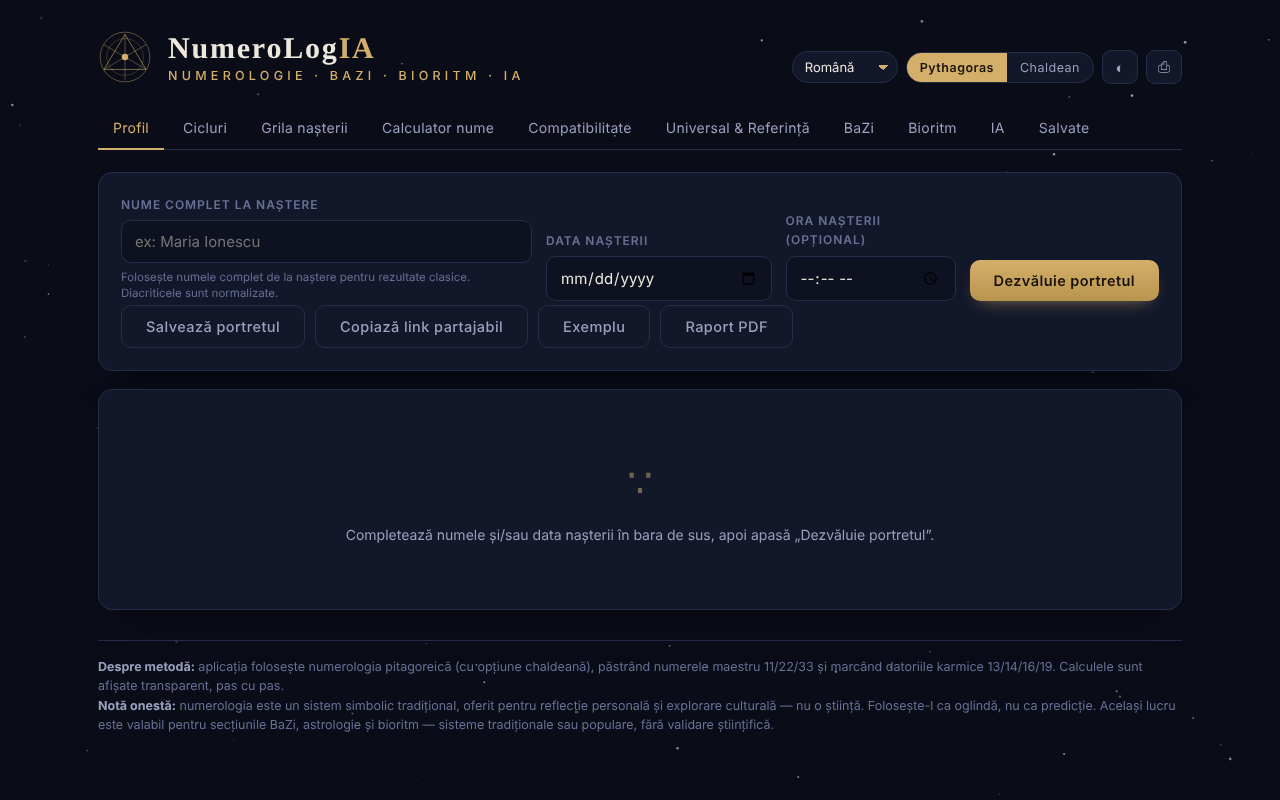
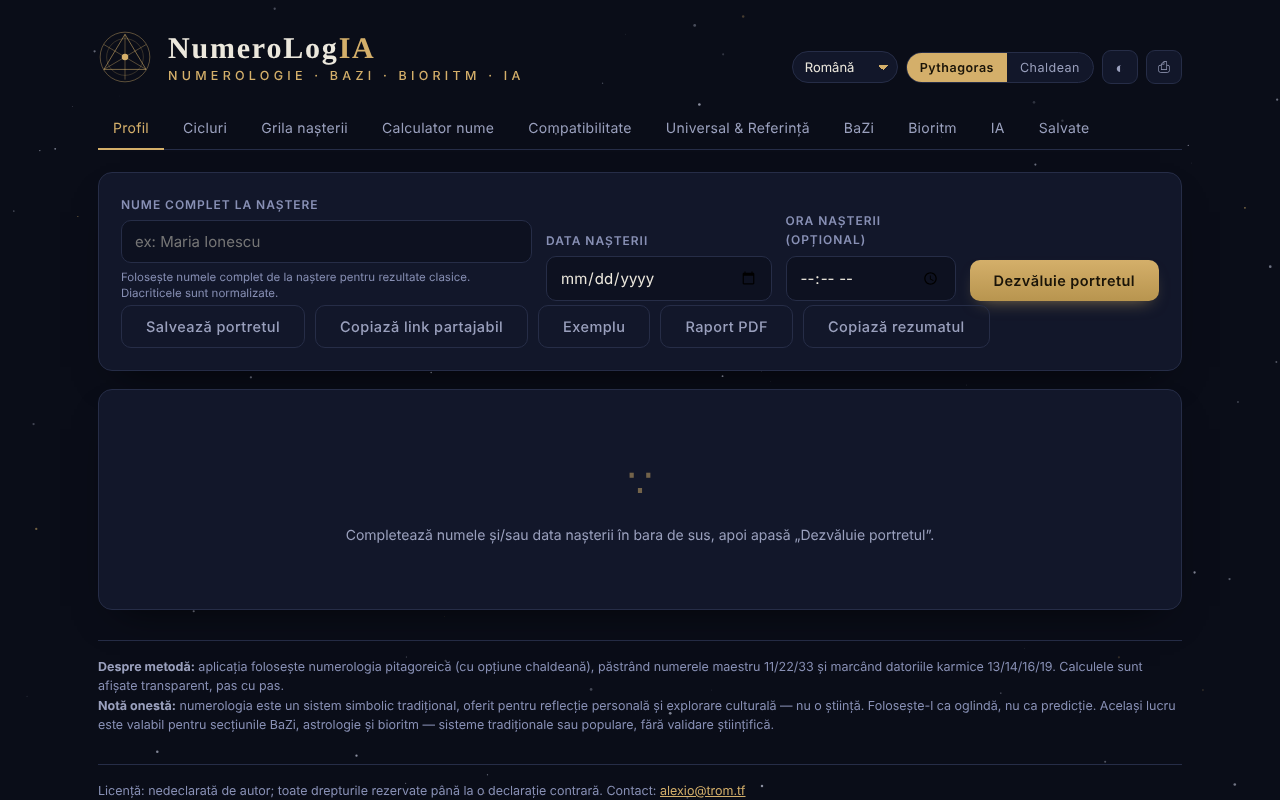
Runda 6 (11 octombrie 2026): reparații și îmbunătățiri
Claude-Session: https://claude.ai/code/session_01D2sCEb3hy3nutYexhUfQFs

diff --git a/index.html b/index.html
@@ -3,7 +3,7 @@
 <head>
 <meta charset="UTF-8">
 <meta name="viewport" content="width=device-width, initial-scale=1.0">
-<meta http-equiv="Content-Security-Policy" content="default-src 'none'; script-src 'unsafe-inline'; style-src 'unsafe-inline'; img-src data:; connect-src http: https:; base-uri 'none'; form-action 'none';">
+<meta http-equiv="Content-Security-Policy" content="default-src 'none'; script-src  'sha256-+IPdaisfzXkAXsBUdKUnLY6JP40ukyKfHoPuEeKIn+4='; style-src 'unsafe-inline'; img-src data:; connect-src http: https:; base-uri 'none'; form-action 'none';">
 <meta name="copyright" content="Licență nedeclarată de autor; toate drepturile rezervate până la o declarație contrară. Contact: alexio@trom.tf">
 <title>NumeroLogIA — Numerologie + IA</title>
 <!-- Licență: nedeclarată de autor; toate drepturile rezervate până la o declarație contrară. Contact: alexio@trom.tf
@@ -266,6 +266,7 @@ body.report-open #reportView{display:block;position:fixed;inset:0;z-index:9999;o
     <button class="btn ghost" id="shareBtn" data-i="btnShare">Copiază link partajabil</button>
     <button class="btn ghost" id="demoBtn" data-i="btnDemo">Exemplu</button>
     <button class="btn ghost" id="reportBtn" data-i="btnReport">Raport PDF</button>
+    <button class="btn ghost" id="copySumBtn" data-i="btnCopySum">Copiază rezumatul</button>
   </div>
 </div>
 <div id="numDetail" class="card" style="display:none;position:relative" role="region" aria-live="polite"></div>
@@ -334,6 +335,11 @@ body.report-open #reportView{display:block;position:fixed;inset:0;z-index:9999;o
     <p class="eyebrow" data-i="savedEye">Portrete păstrate local</p>
     <h3 class="sec-h" style="margin-top:2px" data-i="savedTitle">Portretele tale salvate</h3>
     <p class="sec-sub" style="margin-left:34px" data-i="savedDesc">Salvate doar în acest browser (fără server, fără telemetrie).</p>
+    <div class="btn-row" style="margin:6px 0 12px 34px">
+      <button class="btn ghost" id="expSavedBtn" data-i="btnExport">Exportă (JSON)</button>
+      <button class="btn ghost" id="impSavedBtn" data-i="btnImport">Importă (JSON)</button>
+      <input type="file" id="impFile" accept="application/json,.json" hidden>
+    </div>
     <div id="savedList"></div>
   </div>
 </section>
@@ -649,7 +655,7 @@ const I18N={
   ratingExcellent:"Excelentă",ratingGood:"Bună",ratingComplex:"Complexă",ratingChallenging:"Provocatoare",
   uniEye:"Energia colectivă a momentului",uniTitle:"Numerele universale de azi",universalYear:"Anul Universal",universalMonth:"Luna Universală",universalDay:"Ziua Universală",refTitle:"Referință completă a numerelor",refDesc:"Sensul fiecărui număr, plus corespondențele tradiționale.",
   planet:"Planetă",element:"Element",color:"Culoare",gem:"Piatră",weekday:"Zi",tarot:"Tarot",zodiac:"Zodie",bodyA:"Corp",career:"Vocații",harmony:"Numere armonioase",
-  savedEye:"Portrete păstrate local",savedTitle:"Portretele tale salvate",savedDesc:"Salvate doar în acest browser (fără server, fără telemetrie).",noSaved:"Niciun portret salvat încă. Calculează un portret și apasă „Salvează”.",load:"Încarcă",del:"Șterge",confirmDel:"Ștergi acest portret salvat?",saveOk:"Portret salvat.",saveNeedData:"Completează numele sau data nașterii înainte de a salva.",shareOk:"Link copiat în clipboard. Conține numele și data nașterii.",shareFail:"Nu am putut copia automat — copiază din bara de adrese.",
+  btnCopySum:"Copiază rezumatul",sumOk:"Rezumat copiat în clipboard.",sumNote:"Numerologia este un sistem simbolic, fără validare științifică.",btnExport:"Exportă (JSON)",btnImport:"Importă (JSON)",expEmpty:"Nu ai portrete salvate de exportat.",expOk:"Exportate:",impOk:"Importate:",impFail:"Fișier invalid (se așteaptă un export NumeroLogIA în JSON, sub 1 MB).",dateInvalid:"Data introdusă nu este validă.",savedEye:"Portrete păstrate local",savedTitle:"Portretele tale salvate",savedDesc:"Salvate doar în acest browser (fără server, fără telemetrie).",noSaved:"Niciun portret salvat încă. Calculează un portret și apasă „Salvează”.",load:"Încarcă",del:"Șterge",confirmDel:"Ștergi acest portret salvat?",saveOk:"Portret salvat.",saveNeedData:"Completează numele sau data nașterii înainte de a salva.",shareOk:"Link copiat în clipboard. Conține numele și data nașterii.",shareFail:"Nu am putut copia automat — copiază din bara de adrese.",
   themeT:"Comută tema",printT:"Tipărește / salvează PDF",close:"Închide",demoName:"Maria Ionescu",
   note1:"<b>Despre metodă:</b> aplicația folosește numerologia pitagoreică (cu opțiune chaldeană), păstrând numerele maestru 11/22/33 și marcând datoriile karmice 13/14/16/19. Calculele sunt afișate transparent, pas cu pas.",
   note2:"<b>Notă onestă:</b> numerologia este un sistem simbolic tradițional, oferit pentru reflecție personală și explorare culturală — nu o știință. Folosește-l ca oglindă, nu ca predicție. Același lucru este valabil pentru secțiunile BaZi, astrologie și bioritm — sisteme tradiționale sau populare, fără validare științifică."},
@@ -675,7 +681,7 @@ const I18N={
   ratingExcellent:"Excellent",ratingGood:"Good",ratingComplex:"Complex",ratingChallenging:"Challenging",
   uniEye:"The collective energy of the moment",uniTitle:"Today's universal numbers",universalYear:"Universal Year",universalMonth:"Universal Month",universalDay:"Universal Day",refTitle:"Complete number reference",refDesc:"The meaning of each number, plus its traditional correspondences.",
   planet:"Planet",element:"Element",color:"Color",gem:"Gemstone",weekday:"Weekday",tarot:"Tarot",zodiac:"Zodiac",bodyA:"Body",career:"Callings",harmony:"Harmonious numbers",
-  savedEye:"Portraits kept locally",savedTitle:"Your saved portraits",savedDesc:"Saved only in this browser (no server, no telemetry).",noSaved:"No saved portraits yet. Calculate a portrait and press \u201cSave\u201d.",load:"Load",del:"Delete",confirmDel:"Delete this saved portrait?",saveOk:"Portrait saved.",saveNeedData:"Enter a name or date of birth before saving.",shareOk:"Link copied to clipboard. It contains the name and birth date.",shareFail:"Couldn't copy automatically — copy it from the address bar.",
+  btnCopySum:"Copy summary",sumOk:"Summary copied to the clipboard.",sumNote:"Numerology is a symbolic system with no scientific validation.",btnExport:"Export (JSON)",btnImport:"Import (JSON)",expEmpty:"No saved portraits to export.",expOk:"Exported:",impOk:"Imported:",impFail:"Invalid file (a NumeroLogIA JSON export under 1 MB is expected).",dateInvalid:"The date you entered is not valid.",savedEye:"Portraits kept locally",savedTitle:"Your saved portraits",savedDesc:"Saved only in this browser (no server, no telemetry).",noSaved:"No saved portraits yet. Calculate a portrait and press \u201cSave\u201d.",load:"Load",del:"Delete",confirmDel:"Delete this saved portrait?",saveOk:"Portrait saved.",saveNeedData:"Enter a name or date of birth before saving.",shareOk:"Link copied to clipboard. It contains the name and birth date.",shareFail:"Couldn't copy automatically — copy it from the address bar.",
   themeT:"Toggle theme",printT:"Print / save PDF",close:"Close",demoName:"Mary Johnson",
   note1:"<b>On method:</b> the app uses Pythagorean numerology (with a Chaldean option), preserving master numbers 11/22/33 and flagging karmic debts 13/14/16/19. Every calculation is shown transparently, step by step.",
   note2:"<b>An honest note:</b> numerology is a traditional symbolic system, offered for personal reflection and cultural exploration — not a science. Use it as a mirror, not a prediction. The same applies to the BaZi, astrology and biorhythm sections — traditional or popular systems without scientific validation."}};
@@ -705,7 +711,7 @@ I18N.it={appTitle:"Numerologia",appSub:"Ritratto numerico completo",
  ratingExcellent:"Eccellente",ratingGood:"Buona",ratingComplex:"Complessa",ratingChallenging:"Impegnativa",
  uniEye:"L'energia collettiva del momento",uniTitle:"I numeri universali di oggi",universalYear:"Anno Universale",universalMonth:"Mese Universale",universalDay:"Giorno Universale",refTitle:"Riferimento completo dei numeri",refDesc:"Il significato di ogni numero, più le sue corrispondenze tradizionali.",
  planet:"Pianeta",element:"Elemento",color:"Colore",gem:"Pietra",weekday:"Giorno",tarot:"Tarocco",zodiac:"Zodiaco",bodyA:"Corpo",career:"Vocazioni",harmony:"Numeri armoniosi",
- savedEye:"Ritratti conservati localmente",savedTitle:"I tuoi ritratti salvati",savedDesc:"Salvati solo in questo browser (nessun server, nessuna telemetria).",noSaved:"Nessun ritratto salvato. Calcola un ritratto e premi \u201cSalva\u201d.",load:"Carica",del:"Elimina",confirmDel:"Eliminare questo ritratto salvato?",saveOk:"Ritratto salvato.",saveNeedData:"Inserisci un nome o una data di nascita prima di salvare.",shareOk:"Link copiato negli appunti. Contiene nome e data di nascita.",shareFail:"Impossibile copiare automaticamente — copialo dalla barra degli indirizzi.",
+ btnCopySum:"Copia riepilogo",sumOk:"Riepilogo copiato negli appunti.",sumNote:"La numerologia è un sistema simbolico, senza validazione scientifica.",btnExport:"Esporta (JSON)",btnImport:"Importa (JSON)",expEmpty:"Nessun ritratto salvato da esportare.",expOk:"Esportati:",impOk:"Importati:",impFail:"File non valido (si attende un export JSON di NumeroLogIA sotto 1 MB).",dateInvalid:"La data inserita non è valida.",savedEye:"Ritratti conservati localmente",savedTitle:"I tuoi ritratti salvati",savedDesc:"Salvati solo in questo browser (nessun server, nessuna telemetria).",noSaved:"Nessun ritratto salvato. Calcola un ritratto e premi \u201cSalva\u201d.",load:"Carica",del:"Elimina",confirmDel:"Eliminare questo ritratto salvato?",saveOk:"Ritratto salvato.",saveNeedData:"Inserisci un nome o una data di nascita prima di salvare.",shareOk:"Link copiato negli appunti. Contiene nome e data di nascita.",shareFail:"Impossibile copiare automaticamente — copialo dalla barra degli indirizzi.",
  themeT:"Cambia tema",printT:"Stampa / salva PDF",close:"Chiudi",demoName:"Maria Rossi",
  note1:"<b>Sul metodo:</b> l'app usa la numerologia pitagorica (con opzione caldea), conservando i numeri maestri 11/22/33 e segnalando i debiti karmici 13/14/16/19. Ogni calcolo è mostrato in modo trasparente, passo dopo passo.",
  note2:"<b>Nota onesta:</b> la numerologia è un sistema simbolico tradizionale, offerto per la riflessione personale e l'esplorazione culturale — non una scienza. Usalo come uno specchio, non come una previsione. Lo stesso vale per le sezioni BaZi, astrologia e bioritmo — sistemi tradizionali o popolari, privi di validazione scientifica."};
@@ -791,7 +797,7 @@ I18N.es={appTitle:"Numerología",appSub:"Retrato numérico completo",
  ratingExcellent:"Excelente",ratingGood:"Buena",ratingComplex:"Compleja",ratingChallenging:"Desafiante",
  uniEye:"La energía colectiva del momento",uniTitle:"Los números universales de hoy",universalYear:"Año Universal",universalMonth:"Mes Universal",universalDay:"Día Universal",refTitle:"Referencia completa de los números",refDesc:"El significado de cada número, más sus correspondencias tradicionales.",
  planet:"Planeta",element:"Elemento",color:"Color",gem:"Piedra",weekday:"Día",tarot:"Tarot",zodiac:"Zodíaco",bodyA:"Cuerpo",career:"Vocaciones",harmony:"Números armoniosos",
- savedEye:"Retratos guardados localmente",savedTitle:"Tus retratos guardados",savedDesc:"Guardados solo en este navegador (sin servidor, sin telemetría).",noSaved:"Aún no hay retratos guardados. Calcula un retrato y pulsa \u201cGuardar\u201d.",load:"Cargar",del:"Eliminar",confirmDel:"¿Eliminar este retrato guardado?",saveOk:"Retrato guardado.",saveNeedData:"Introduce un nombre o una fecha de nacimiento antes de guardar.",shareOk:"Enlace copiado al portapapeles. Contiene el nombre y la fecha de nacimiento.",shareFail:"No se pudo copiar automáticamente — cópialo de la barra de direcciones.",
+ btnCopySum:"Copiar resumen",sumOk:"Resumen copiado al portapapeles.",sumNote:"La numerología es un sistema simbólico, sin validación científica.",btnExport:"Exportar (JSON)",btnImport:"Importar (JSON)",expEmpty:"No hay retratos guardados para exportar.",expOk:"Exportados:",impOk:"Importados:",impFail:"Archivo no válido (se espera una exportación JSON de NumeroLogIA de menos de 1 MB).",dateInvalid:"La fecha introducida no es válida.",savedEye:"Retratos guardados localmente",savedTitle:"Tus retratos guardados",savedDesc:"Guardados solo en este navegador (sin servidor, sin telemetría).",noSaved:"Aún no hay retratos guardados. Calcula un retrato y pulsa \u201cGuardar\u201d.",load:"Cargar",del:"Eliminar",confirmDel:"¿Eliminar este retrato guardado?",saveOk:"Retrato guardado.",saveNeedData:"Introduce un nombre o una fecha de nacimiento antes de guardar.",shareOk:"Enlace copiado al portapapeles. Contiene el nombre y la fecha de nacimiento.",shareFail:"No se pudo copiar automáticamente — cópialo de la barra de direcciones.",
  themeT:"Cambiar tema",printT:"Imprimir / guardar PDF",close:"Cerrar",demoName:"María García",
  note1:"<b>Sobre el método:</b> la app usa numerología pitagórica (con opción caldea), conservando los números maestros 11/22/33 y señalando las deudas kármicas 13/14/16/19. Cada cálculo se muestra de forma transparente, paso a paso.",
  note2:"<b>Nota honesta:</b> la numerología es un sistema simbólico tradicional, ofrecido para la reflexión personal y la exploración cultural — no una ciencia. Úsala como un espejo, no como una predicción. Lo mismo vale para las secciones de BaZi, astrología y biorritmo: sistemas tradicionales o populares sin validación científica."};
@@ -877,7 +883,7 @@ I18N.fr={appTitle:"Numérologie",appSub:"Portrait numérique complet",
  ratingExcellent:"Excellente",ratingGood:"Bonne",ratingComplex:"Complexe",ratingChallenging:"Exigeante",
  uniEye:"L'énergie collective du moment",uniTitle:"Les nombres universels d'aujourd'hui",universalYear:"Année Universelle",universalMonth:"Mois Universel",universalDay:"Jour Universel",refTitle:"Référence complète des nombres",refDesc:"Le sens de chaque nombre, ainsi que ses correspondances traditionnelles.",
  planet:"Planète",element:"Élément",color:"Couleur",gem:"Pierre",weekday:"Jour",tarot:"Tarot",zodiac:"Zodiaque",bodyA:"Corps",career:"Vocations",harmony:"Nombres harmonieux",
- savedEye:"Portraits conservés localement",savedTitle:"Vos portraits enregistrés",savedDesc:"Enregistrés uniquement dans ce navigateur (aucun serveur, aucune télémétrie).",noSaved:"Aucun portrait enregistré pour l'instant. Calculez un portrait et appuyez sur \u201cEnregistrer\u201d.",load:"Charger",del:"Supprimer",confirmDel:"Supprimer ce portrait enregistré ?",saveOk:"Portrait enregistré.",saveNeedData:"Saisissez un nom ou une date de naissance avant d'enregistrer.",shareOk:"Lien copié dans le presse-papiers. Il contient le nom et la date de naissance.",shareFail:"Impossible de copier automatiquement — copiez-le depuis la barre d'adresse.",
+ btnCopySum:"Copier le résumé",sumOk:"Résumé copié dans le presse-papiers.",sumNote:"La numérologie est un système symbolique, sans validation scientifique.",btnExport:"Exporter (JSON)",btnImport:"Importer (JSON)",expEmpty:"Aucun portrait enregistré à exporter.",expOk:"Exportés :",impOk:"Importés :",impFail:"Fichier invalide (un export JSON de NumeroLogIA de moins de 1 Mo est attendu).",dateInvalid:"La date saisie n’est pas valide.",savedEye:"Portraits conservés localement",savedTitle:"Vos portraits enregistrés",savedDesc:"Enregistrés uniquement dans ce navigateur (aucun serveur, aucune télémétrie).",noSaved:"Aucun portrait enregistré pour l'instant. Calculez un portrait et appuyez sur \u201cEnregistrer\u201d.",load:"Charger",del:"Supprimer",confirmDel:"Supprimer ce portrait enregistré ?",saveOk:"Portrait enregistré.",saveNeedData:"Saisissez un nom ou une date de naissance avant d'enregistrer.",shareOk:"Lien copié dans le presse-papiers. Il contient le nom et la date de naissance.",shareFail:"Impossible de copier automatiquement — copiez-le depuis la barre d'adresse.",
  themeT:"Changer de thème",printT:"Imprimer / enregistrer en PDF",close:"Fermer",demoName:"Marie Dubois",
  note1:"<b>À propos de la méthode :</b> l'app utilise la numérologie pythagoricienne (avec une option chaldéenne), en conservant les nombres maîtres 11/22/33 et en signalant les dettes karmiques 13/14/16/19. Chaque calcul est montré de façon transparente, étape par étape.",
  note2:"<b>Note honnête :</b> la numérologie est un système symbolique traditionnel, proposé pour la réflexion personnelle et l'exploration culturelle — pas une science. Utilisez-la comme un miroir, non comme une prédiction. Il en va de même pour les sections BaZi, astrologie et biorythme — des systèmes traditionnels ou populaires, sans validation scientifique."};
@@ -963,7 +969,7 @@ I18N.pt={appTitle:"Numerologia",appSub:"Retrato numérico completo",
  ratingExcellent:"Excelente",ratingGood:"Boa",ratingComplex:"Complexa",ratingChallenging:"Exigente",
  uniEye:"A energia coletiva do momento",uniTitle:"Os números universais de hoje",universalYear:"Ano Universal",universalMonth:"Mês Universal",universalDay:"Dia Universal",refTitle:"Referência completa dos números",refDesc:"O significado de cada número, além das suas correspondências tradicionais.",
  planet:"Planeta",element:"Elemento",color:"Cor",gem:"Pedra",weekday:"Dia",tarot:"Tarô",zodiac:"Zodíaco",bodyA:"Corpo",career:"Vocações",harmony:"Números harmoniosos",
- savedEye:"Retratos guardados localmente",savedTitle:"Os seus retratos guardados",savedDesc:"Guardados apenas neste navegador (sem servidor, sem telemetria).",noSaved:"Ainda não há retratos guardados. Calcule um retrato e prima \u201cGuardar\u201d.",load:"Carregar",del:"Eliminar",confirmDel:"Eliminar este retrato guardado?",saveOk:"Retrato guardado.",saveNeedData:"Introduza um nome ou uma data de nascimento antes de guardar.",shareOk:"Link copiado para a área de transferência. Contém o nome e a data de nascimento.",shareFail:"Não foi possível copiar automaticamente — copie da barra de endereço.",
+ btnCopySum:"Copiar resumo",sumOk:"Resumo copiado para a área de transferência.",sumNote:"A numerologia é um sistema simbólico, sem validação científica.",btnExport:"Exportar (JSON)",btnImport:"Importar (JSON)",expEmpty:"Não há retratos guardados para exportar.",expOk:"Exportados:",impOk:"Importados:",impFail:"Ficheiro inválido (espera-se uma exportação JSON do NumeroLogIA com menos de 1 MB).",dateInvalid:"A data introduzida não é válida.",savedEye:"Retratos guardados localmente",savedTitle:"Os seus retratos guardados",savedDesc:"Guardados apenas neste navegador (sem servidor, sem telemetria).",noSaved:"Ainda não há retratos guardados. Calcule um retrato e prima \u201cGuardar\u201d.",load:"Carregar",del:"Eliminar",confirmDel:"Eliminar este retrato guardado?",saveOk:"Retrato guardado.",saveNeedData:"Introduza um nome ou uma data de nascimento antes de guardar.",shareOk:"Link copiado para a área de transferência. Contém o nome e a data de nascimento.",shareFail:"Não foi possível copiar automaticamente — copie da barra de endereço.",
  themeT:"Mudar tema",printT:"Imprimir / guardar PDF",close:"Fechar",demoName:"Maria Silva",
  note1:"<b>Sobre o método:</b> a app usa numerologia pitagórica (com opção caldeia), conservando os números mestres 11/22/33 e assinalando as dívidas cármicas 13/14/16/19. Cada cálculo é mostrado de forma transparente, passo a passo.",
  note2:"<b>Nota honesta:</b> a numerologia é um sistema simbólico tradicional, oferecido para a reflexão pessoal e a exploração cultural — não uma ciência. Use-a como um espelho, não como uma previsão. O mesmo vale para as secções de BaZi, astrologia e biorritmo — sistemas tradicionais ou populares, sem validação científica."};
@@ -1049,7 +1055,7 @@ I18N.ca={appTitle:"Numerologia",appSub:"Retrat numèric complet",
  ratingExcellent:"Excel·lent",ratingGood:"Bona",ratingComplex:"Complexa",ratingChallenging:"Exigent",
  uniEye:"L'energia col·lectiva del moment",uniTitle:"Els nombres universals d'avui",universalYear:"Any Universal",universalMonth:"Mes Universal",universalDay:"Dia Universal",refTitle:"Referència completa dels nombres",refDesc:"El significat de cada nombre, a més de les seves correspondències tradicionals.",
  planet:"Planeta",element:"Element",color:"Color",gem:"Pedra",weekday:"Dia",tarot:"Tarot",zodiac:"Zodíac",bodyA:"Cos",career:"Vocacions",harmony:"Nombres harmoniosos",
- savedEye:"Retrats desats localment",savedTitle:"Els vostres retrats desats",savedDesc:"Desats només en aquest navegador (sense servidor, sense telemetria).",noSaved:"Encara no hi ha retrats desats. Calculeu un retrat i premeu \u201cDesa\u201d.",load:"Carrega",del:"Elimina",confirmDel:"Voleu eliminar aquest retrat desat?",saveOk:"Retrat desat.",saveNeedData:"Introduïu un nom o una data de naixement abans de desar.",shareOk:"Enllaç copiat al porta-retalls. Conté el nom i la data de naixement.",shareFail:"No s'ha pogut copiar automàticament — copieu-lo de la barra d'adreces.",
+ btnCopySum:"Copia el resum",sumOk:"Resum copiat al porta-retalls.",sumNote:"La numerologia és un sistema simbòlic, sense validació científica.",btnExport:"Exporta (JSON)",btnImport:"Importa (JSON)",expEmpty:"No hi ha retrats desats per exportar.",expOk:"Exportats:",impOk:"Importats:",impFail:"Fitxer no vàlid (s’espera una exportació JSON de NumeroLogIA de menys d’1 MB).",dateInvalid:"La data introduïda no és vàlida.",savedEye:"Retrats desats localment",savedTitle:"Els vostres retrats desats",savedDesc:"Desats només en aquest navegador (sense servidor, sense telemetria).",noSaved:"Encara no hi ha retrats desats. Calculeu un retrat i premeu \u201cDesa\u201d.",load:"Carrega",del:"Elimina",confirmDel:"Voleu eliminar aquest retrat desat?",saveOk:"Retrat desat.",saveNeedData:"Introduïu un nom o una data de naixement abans de desar.",shareOk:"Enllaç copiat al porta-retalls. Conté el nom i la data de naixement.",shareFail:"No s'ha pogut copiar automàticament — copieu-lo de la barra d'adreces.",
  themeT:"Canvia el tema",printT:"Imprimeix / desa en PDF",close:"Tanca",demoName:"Maria Garcia",
  note1:"<b>Sobre el mètode:</b> l'aplicació usa numerologia pitagòrica (amb opció caldea), conservant els nombres mestres 11/22/33 i assenyalant els deutes kàrmics 13/14/16/19. Cada càlcul es mostra de manera transparent, pas a pas.",
  note2:"<b>Nota honesta:</b> la numerologia és un sistema simbòlic tradicional, ofert per a la reflexió personal i l'exploració cultural — no una ciència. Useu-la com un mirall, no com una predicció. El mateix val per a les seccions de BaZi, astrologia i biorritme: sistemes tradicionals o populars sense validació científica."};
@@ -1191,6 +1197,7 @@ window.showDetail=showDetail;
 function computeProfile(){
   const rawName=$('inName').value.trim(); const dv=$('inDate').value;
   state.name=rawName; state.date=dv||null; const dt=readDate(dv);
+  if(dv&&!dt)toast(t('dateInvalid'));
   const norm=normSpaces(rawName); const hasName=norm.replace(/ /g,'').length>0;
   if(rawName&&!hasName)toast(t('nameNoLatin')); /* nume doar cu alfabet ne-latin: înainte era ignorat în tăcere */
   if(!hasName&&!dt){profile=null;return;}
@@ -1272,7 +1279,7 @@ function renderCycles(){
   const P=profile; const fdRaw=state.forecast||todayISO(); const fd=readDate(fdRaw)||readDate(todayISO());
   const pc=personalCycles(P.date.d,P.date.m,fd.y,fd.m,fd.d); const age=ageNow(P.date.d,P.date.m,P.date.y);
   let h='<h3 class="sec-h">'+t('cyclesIntro')+'</h3><p class="sec-sub">'+t('cyclesDesc')+'</p>';
-  h+='<div class="card" style="padding:14px 22px"><div class="field" style="max-width:240px"><label for="forecastDate">'+t('forecastFor')+'</label><input type="date" id="forecastDate" value="'+fdRaw+'" min="1500-01-01" max="2200-12-31" onchange="window.setForecast(this.value)"></div></div>';
+  h+='<div class="card" style="padding:14px 22px"><div class="field" style="max-width:240px"><label for="forecastDate">'+t('forecastFor')+'</label><input type="date" id="forecastDate" value="'+fdRaw+'" min="1500-01-01" max="2200-12-31" data-change="setForecast" data-a="[&quot;$v&quot;]"></div></div>';
   h+='<div class="three">'+miniNum('personalYear',t('personalYear'),pc.py.v)+miniNum('personalMonth',t('personalMonth'),pc.pm.v)+miniNum('personalDay',t('personalDay'),pc.pd.v)+'</div>';
   const py=loc(PYEAR[root(pc.py.v)]);
   h+='<div class="readout"><p class="eyebrow" style="margin-bottom:4px">'+t('personalYear')+' '+badge(pc.py.v)+'</p><h4>'+esc(py.t)+'</h4><p>'+esc(py.d)+'</p></div>';
@@ -1420,7 +1427,7 @@ function renderCompat(){
   let bsum=0;const jd1=bzJDN(d1.y,d1.m,d1.d),jd2=bzJDN(d2.y,d2.m,d2.d);for(let i=0;i<3;i++){bsum+=(Math.cos(2*Math.PI*(jd2-jd1)/BIO_RHYTHMS[i].period)+1)/2;}
   radarAx.push({label:t('rxBio'),value:bsum});
   h+='<div class="card" style="text-align:center"><p class="eyebrow" style="text-align:left">'+t('compatRadarTitle')+'</p>'+radarSVG(radarAx,3,'#d4af6a')+'</div>';
-  h+='<div style="text-align:center;margin-top:4px"><button class="btn ghost" onclick="reportCompare()">'+t('btnReportCompare')+'</button></div>';
+  h+='<div style="text-align:center;margin-top:4px"><button class="btn ghost" data-click="reportCompare">'+t('btnReportCompare')+'</button></div>';
   box.innerHTML=h;
 }
 
@@ -1444,8 +1451,46 @@ function prefSet(k,v){try{localStorage.setItem('num_pref_'+k,v);}catch(e){}}
 function renderSaved(){
   const list=getSaved(); const box=$('savedList');
   if(!list.length){box.innerHTML='<p style="color:var(--mut);font-size:14px;margin:0">'+t('noSaved')+'</p>';return;}
-  let h=''; list.forEach((it,i)=>{h+='<div class="saved-item"><div><div class="si-name">'+esc(it.name||t('noName'))+'</div><div class="si-meta">'+esc((it.date||'')+(it.time?' · '+it.time:''))+'</div></div><div class="si-act"><button class="xbtn" onclick="window.loadSaved('+i+')">'+t('load')+'</button><button class="xbtn del" onclick="window.delSaved('+i+')">'+t('del')+'</button></div></div>';});
+  let h=''; list.forEach((it,i)=>{h+='<div class="saved-item"><div><div class="si-name">'+esc(it.name||t('noName'))+'</div><div class="si-meta">'+esc((it.date||'')+(it.time?' · '+it.time:''))+'</div></div><div class="si-act"><button class="xbtn" data-click="loadSaved" data-a="['+i+']">'+t('load')+'</button><button class="xbtn del" data-click="delSaved" data-a="['+i+']">'+t('del')+'</button></div></div>';});
   box.innerHTML=h;
+}
+function summaryText(){
+  if(!profile)return '';
+  const P=profile,L=['NumeroLogIA · '+(state.sys==='chal'?'Chaldean':'Pythagoras')];
+  if(P.name)L.push(t('profileFor')+': '+P.name);
+  if(P.date)L.push(t('born')+' '+fmtDate(P.date));
+  const add=function(lbl,o){if(o&&o.v!==undefined)L.push(lbl+': '+o.v+(o.karmic?' ('+o.karmic+')':''));};
+  if(P.hasDate)add(t('lifePath'),P.lp.primary);
+  if(P.hasName){add(t('expression'),P.nn.expression);add(t('soulUrge'),P.nn.soul);add(t('personality'),P.nn.personality);}
+  if(P.hasDate)add(t('birthday'),P.birthday);
+  if(P.maturity)add(t('maturity'),P.maturity);
+  L.push('',t('sumNote'));
+  return L.join('\n');
+}
+function exportSaved(){
+  const list=getSaved();
+  if(!list.length){toast(t('expEmpty'));return;}
+  const blob=new Blob([JSON.stringify({app:'NumeroLogIA',version:1,saved:list},null,1)],{type:'application/json'});
+  const a=document.createElement('a');a.href=URL.createObjectURL(blob);a.download='numerologia-portrete.json';
+  document.body.appendChild(a);a.click();a.remove();setTimeout(function(){URL.revokeObjectURL(a.href);},2000);
+  toast(t('expOk')+' '+list.length);
+}
+function importSaved(text){
+  let data;try{data=JSON.parse(text);}catch(e){toast(t('impFail'));return;}
+  const arr=Array.isArray(data)?data:(data&&Array.isArray(data.saved)?data.saved:null);
+  if(!arr){toast(t('impFail'));return;}
+  const list=getSaved();let added=0;
+  arr.forEach(function(x){
+    if(!x||typeof x!=='object')return;
+    const name=typeof x.name==='string'?x.name.slice(0,120):'';
+    const date=typeof x.date==='string'&&/^\d{4}-\d{2}-\d{2}$/.test(x.date)&&readDate(x.date)?x.date:'';
+    const time=typeof x.time==='string'&&/^\d{2}:\d{2}$/.test(x.time)?x.time:'';
+    if(!name&&!date)return;
+    if(list.some(function(y){return y.name===name&&y.date===date&&(y.time||'')===time;}))return;
+    if(list.length>=50)return;
+    list.push({name:name,date:date,time:time});added++;
+  });
+  setSaved(list);renderSaved();toast(t('impOk')+' '+added);
 }
 window.loadSaved=function(i){const it=getSaved()[i];if(!it)return;$('inName').value=it.name||'';$('inDate').value=it.date||'';if($('inTime'))$('inTime').value=it.time||'';computeProfile();switchTab('profil');updateHash();};
 window.delSaved=function(i){if(!confirm(t('confirmDel')))return;const list=getSaved();list.splice(i,1);setSaved(list);renderSaved();};
@@ -1800,8 +1845,8 @@ function renderBio(){
   let h='<div class="card"><p class="eyebrow">'+t('bioEye')+'</p><h3 class="sec-h" style="margin-top:2px">'+t('bioTitle')+'</h3><p class="sec-sub" style="margin:2px 0 12px 0">'+t('bioDesc')+'</p>';
   h+='<div style="display:flex;align-items:center;gap:12px;flex-wrap:wrap;margin-bottom:4px">';
   h+='<label style="font-size:13px;color:var(--mut)">'+t('bioTargetLbl')+'</label>';
-  h+='<input type="range" id="bioSlider" aria-labelledby="bioDateLbl" min="-60" max="60" value="0" step="1" oninput="bioUpdate()" style="flex:1;min-width:170px;accent-color:var(--gild)">';
-  h+='<button class="btn ghost" style="padding:6px 12px" onclick="var s=document.getElementById(\'bioSlider\');s.value=0;bioUpdate();">'+t('bioToday')+'</button>';
+  h+='<input type="range" id="bioSlider" aria-labelledby="bioDateLbl" min="-60" max="60" value="0" step="1" data-input="bioUpdate" style="flex:1;min-width:170px;accent-color:var(--gild)">';
+  h+='<button class="btn ghost" style="padding:6px 12px" data-click="bioToday">'+t('bioToday')+'</button>';
   h+='<span id="bioDateLbl" style="font-family:var(--mono);font-size:13px;color:var(--gild-t);min-width:130px;text-align:right"></span></div>';
   h+='<div id="bioChart" style="margin:4px 0"></div>';
   h+='<div id="bioVals" class="med-grid" style="margin-top:8px"></div>';
@@ -1940,19 +1985,19 @@ function renderAI(){
   h+='<details style="margin-bottom:14px"><summary style="cursor:pointer;font-size:13.5px;color:var(--cele)">'+t('aiSettings')+'</summary><div style="margin-top:10px">';
   h+='<div class="field"><label>'+t('aiBaseLbl')+'</label><input type="text" id="aiBase" value="'+base+'" autocomplete="off" spellcheck="false"></div>';
   h+='<div class="field" style="margin-top:8px"><label>'+t('aiModelLbl')+'</label><input type="text" id="aiModel" value="'+model+'" autocomplete="off" spellcheck="false"></div>';
-  h+='<div class="field" style="margin-top:10px"><label>'+t('aiInstalledLbl')+'</label><div style="display:flex;gap:8px"><select id="aiModelList" onchange="aiPickModel()" style="flex:1"><option value="">—</option></select><button class="btn ghost" style="padding:7px 12px" onclick="aiRefreshModels()">'+t('aiRefresh')+'</button></div></div>';
-  h+='<div class="field" style="margin-top:10px"><label>'+t('aiPullLbl')+'</label><div style="display:flex;gap:8px"><input type="text" id="aiPullName" value="'+model+'" autocomplete="off" spellcheck="false" style="flex:1"><button class="btn" style="padding:7px 14px" onclick="aiPullModel()">'+t('aiPullBtn')+'</button></div></div>';
-  h+='<div style="margin-top:6px;display:flex;gap:6px;flex-wrap:wrap">'+["llama3.2:1b","llama3.2","qwen2.5:3b","gemma2:2b","phi3.5"].map(function(m){return '<button onclick="aiSetPull(&#39;'+m+'&#39;)" style="font-size:12px;padding:4px 9px;border:1px solid var(--line);border-radius:99px;background:var(--surf);color:var(--cele);cursor:pointer">'+m+'</button>';}).join('')+'</div>';
+  h+='<div class="field" style="margin-top:10px"><label>'+t('aiInstalledLbl')+'</label><div style="display:flex;gap:8px"><select id="aiModelList" data-change="aiPickModel" style="flex:1"><option value="">—</option></select><button class="btn ghost" style="padding:7px 12px" data-click="aiRefreshModels">'+t('aiRefresh')+'</button></div></div>';
+  h+='<div class="field" style="margin-top:10px"><label>'+t('aiPullLbl')+'</label><div style="display:flex;gap:8px"><input type="text" id="aiPullName" value="'+model+'" autocomplete="off" spellcheck="false" style="flex:1"><button class="btn" style="padding:7px 14px" data-click="aiPullModel">'+t('aiPullBtn')+'</button></div></div>';
+  h+='<div style="margin-top:6px;display:flex;gap:6px;flex-wrap:wrap">'+["llama3.2:1b","llama3.2","qwen2.5:3b","gemma2:2b","phi3.5"].map(function(m){return '<button data-click="aiSetPull" data-a="[&quot;'+m+'&quot;]" style="font-size:12px;padding:4px 9px;border:1px solid var(--line);border-radius:99px;background:var(--surf);color:var(--cele);cursor:pointer">'+m+'</button>';}).join('')+'</div>';
   h+='<div id="aiPullBar" style="height:8px;background:var(--surf2);border-radius:99px;overflow:hidden;margin-top:8px"><div id="aiPullBarFill" style="height:100%;width:0;background:var(--gild);transition:width .3s"></div></div>';
   h+='<div id="aiPullStatus" style="font-size:12px;color:var(--mut);margin-top:5px;min-height:14px"></div>';
   h+='<p class="sec-sub" style="margin-top:4px">'+t('aiDownloadHint')+'</p>';
   h+='<div class="field" style="margin-top:8px"><label>'+t('aiKeyLbl')+'</label><input type="password" id="aiKey" value="'+key+'" autocomplete="off" spellcheck="false"></div>';
   h+='<p class="sec-sub" id="aiKeyWarn" style="margin:4px 0 0">'+t('aiKeyWarn')+'</p>';
-  h+='<div style="margin-top:10px;display:flex;gap:8px;align-items:center;flex-wrap:wrap"><button class="btn ghost" style="padding:7px 14px" onclick="aiSaveSettings()">'+t('aiSave')+'</button><button class="btn ghost" style="padding:7px 14px" onclick="aiTest()">'+t('aiTest')+'</button><span id="aiStatus" style="font-size:12.5px;color:var(--mut)"></span></div>';
+  h+='<div style="margin-top:10px;display:flex;gap:8px;align-items:center;flex-wrap:wrap"><button class="btn ghost" style="padding:7px 14px" data-click="aiSaveSettings">'+t('aiSave')+'</button><button class="btn ghost" style="padding:7px 14px" data-click="aiTest">'+t('aiTest')+'</button><span id="aiStatus" style="font-size:12.5px;color:var(--mut)"></span></div>';
   h+='<p class="sec-sub" style="margin-top:10px">'+t('aiSetupHint')+'</p>';
   h+='</div></details>';
-  h+='<div style="display:flex;gap:8px;flex-wrap:wrap;margin-bottom:10px"><button class="btn" onclick="aiPortrait()">'+t('aiBtnPortrait')+'</button><button class="btn" onclick="aiDaily()">'+t('aiBtnDaily')+'</button><button class="btn" onclick="aiCompatRun()">'+t('aiBtnCompat')+'</button></div>';
-  h+='<div class="field"><label>'+t('aiAskLbl')+'</label><div style="display:flex;gap:8px"><input type="text" id="aiAsk" placeholder="'+esc(t('aiAskPh'))+'" autocomplete="off" style="flex:1" onkeydown="aiAskKey(event)"><button class="btn" onclick="aiAsk()">'+t('aiAskBtn')+'</button></div></div>';
+  h+='<div style="display:flex;gap:8px;flex-wrap:wrap;margin-bottom:10px"><button class="btn" data-click="aiPortrait">'+t('aiBtnPortrait')+'</button><button class="btn" data-click="aiDaily">'+t('aiBtnDaily')+'</button><button class="btn" data-click="aiCompatRun">'+t('aiBtnCompat')+'</button></div>';
+  h+='<div class="field"><label>'+t('aiAskLbl')+'</label><div style="display:flex;gap:8px"><input type="text" id="aiAsk" placeholder="'+esc(t('aiAskPh'))+'" autocomplete="off" style="flex:1" data-keydown="aiAskKey" data-a="[&quot;$ev&quot;]"><button class="btn" data-click="aiAsk">'+t('aiAskBtn')+'</button></div></div>';
   h+='<div id="aiResp" style="margin-top:14px;white-space:pre-wrap;line-height:1.62;font-size:14.5px;min-height:8px"></div>';
   h+='<p class="sec-sub" style="margin-top:14px">'+t('aiDisclaimer')+'</p></div>';
   box.innerHTML=h;
@@ -2089,7 +2134,7 @@ function openReport(kind){
   const v=$('reportView'); if(!v)return;
   const html=(kind==='compare')?buildCompareReport():buildPersonalReport();
   if(!html){toast(kind==='compare'?t('aiNeedCompat'):t('aiNeedProfile'));return;}
-  v.innerHTML='<div class="report-toolbar"><button class="btn" onclick="reportPrint()">'+t('rptPrint')+'</button><button class="btn ghost" onclick="closeReport()">'+t('rptClose')+'</button></div><div class="report-body">'+html+'</div>';
+  v.innerHTML='<div class="report-toolbar"><button class="btn" data-click="reportPrint">'+t('rptPrint')+'</button><button class="btn ghost" data-click="closeReport">'+t('rptClose')+'</button></div><div class="report-body">'+html+'</div>';
   document.body.classList.add('report-open');
 }
 window.openReport=openReport;
@@ -2129,6 +2174,10 @@ $('saveBtn').addEventListener('click',()=>{const name=$('inName').value.trim(),d
 $('shareBtn').addEventListener('click',()=>{computeProfile();updateHash();const url=location.href;if(navigator.clipboard&&navigator.clipboard.writeText){navigator.clipboard.writeText(url).then(()=>toast(t('shareOk')),()=>toast(t('shareFail')));}else toast(t('shareFail'));});
 $('demoBtn').addEventListener('click',()=>{$('inName').value=t('demoName');$('inDate').value='1988-07-23';if($('inTime'))$('inTime').value='14:30';computeProfile();switchTab('profil');updateHash();});
 $('reportBtn').addEventListener('click',()=>openReport('personal'));
+$('copySumBtn').addEventListener('click',()=>{computeProfile();const tx=summaryText();if(!tx){toast(t('fillPrompt'));return;}if(navigator.clipboard&&navigator.clipboard.writeText){navigator.clipboard.writeText(tx).then(()=>toast(t('sumOk')),()=>toast(t('shareFail')));}else toast(t('shareFail'));});
+$('expSavedBtn').addEventListener('click',exportSaved);
+$('impSavedBtn').addEventListener('click',()=>$('impFile').click());
+$('impFile').addEventListener('change',function(){const f=this.files&&this.files[0];if(!f)return;if(f.size>1000000){toast(t('impFail'));this.value='';return;}const r=new FileReader();r.onload=function(){importSaved(String(r.result));};r.onerror=function(){toast(t('impFail'));};r.readAsText(f);this.value='';});
 $('wordBtn').addEventListener('click',renderName);
 $('cmpBtn').addEventListener('click',renderCmp);
 $('compatBtn').addEventListener('click',renderCompat);
@@ -2143,6 +2192,20 @@ window.addEventListener('resize',drawSky);
 window.addEventListener('hashchange',()=>{});
 
 /* ---------- init ---------- */
+window.bioToday=function(){const sl=document.getElementById('bioSlider');if(sl){sl.value=0;bioUpdate();}};
+/* dispatcher delegat: înlocuiește atributele on* inline (CSP fără 'unsafe-inline' pentru scripturi) */
+(function(){
+  const ALLOWED=new Set(["aiAsk", "aiAskKey", "aiCompatRun", "aiDaily", "aiPickModel", "aiPortrait", "aiPullModel", "aiRefreshModels", "aiSaveSettings", "aiSetPull", "aiTest", "bioToday", "bioUpdate", "closeReport", "delSaved", "loadSaved", "reportCompare", "reportPrint", "setForecast"]);
+  ['click','change','input','keydown'].forEach(function(type){
+    document.addEventListener(type,function(ev){
+      const el=ev.target&&ev.target.closest?ev.target.closest('[data-'+type+']'):null; if(!el)return;
+      const name=el.getAttribute('data-'+type); if(!ALLOWED.has(name)||typeof window[name]!=='function')return;
+      let args=[]; const raw=el.getAttribute('data-a'); if(raw){try{args=JSON.parse(raw);}catch(e){args=[];}}
+      if(!Array.isArray(args))args=[];
+      window[name].apply(el,args.map(function(a){return a==='$ev'?ev:(a==='$v'?el.value:a);}));
+    });
+  });
+})();
 (function init(){
   const savedTheme=prefGet('theme'); if(savedTheme==='light'||savedTheme==='dark')document.body.dataset.theme=savedTheme;
   state.lang=detectLang();
